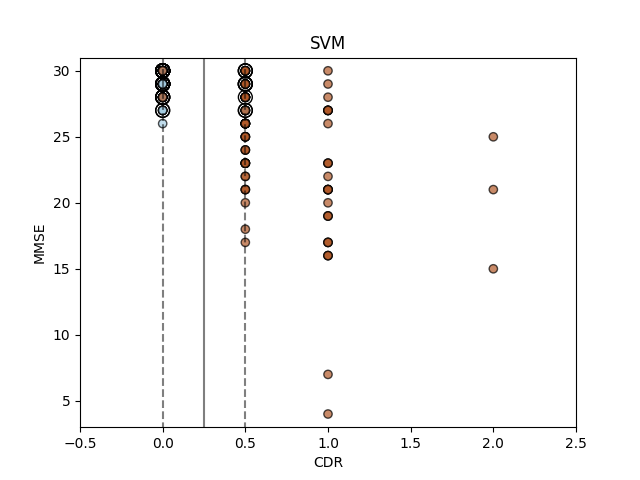
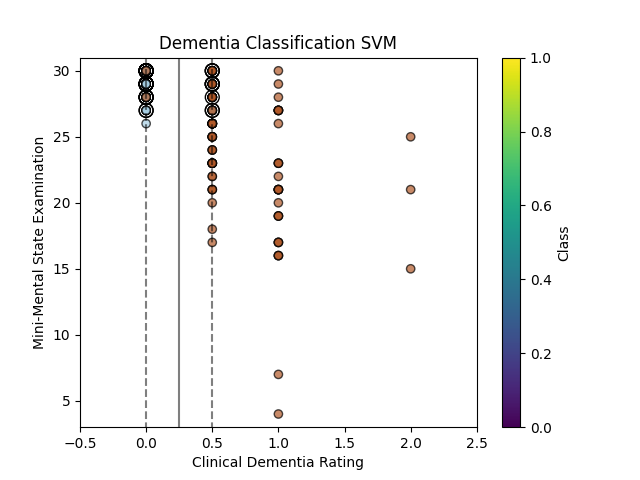
Cleaned main file. Also added way to check colors of classes for SVM.

diff --git a/alzheimer_prediction/main.py b/alzheimer_prediction/main.py
@@ -4,18 +4,12 @@ import preprocessing as pre
 import postprocessing as post
 import support_vector_model as svmLib
 
-# from preprocessing import *
-# from postprocessing import * 
-# from support_vector_model import *
-
 if __name__ == '__main__':
     #change path depending on where data is located
     datapath = './alzheimer.csv'
 
-    # preprocessing
+    # PREPROCESSING
     dp = pre.read_data(datapath)
-    # print("dp:")
-    # print(dp)
     X, y, new_y = pre.encode_data(dp)
     # pre.find_important_features(X, y)
 
@@ -39,37 +33,20 @@ if __name__ == '__main__':
     # Find the best parameters for the SVM; comment when done
     # svmLib.train_svm_multiple(X_train, y_train, X_test, y_test, seed)
     
-    ##### UNCOMMENT LATER
     # Train best SVM
-    # svmLib.best_svm(X_train, y_train, X_test, y_test, seed)
+    svmLib.best_svm(X_train, y_train, X_test, y_test, seed)
 
-    # Postprocessing: get the most important features to highlight
-    #print("X training:")
-    #print(X_train)
+    # POSTPROCESSING
+    # Find 2 most important features for lower-dimension SVM
     headers = ["M/F", "Age", "MMSE", "CDR", "eTIV", "nWBV", "ASF"]
     X_train.columns = headers
-    #print(X_train)
-    # y_train.columns = ["Group"]
-    print("y train:")
-    print(y_train)
     pre.find_important_features(X_train, y_train)
 
     # Find best parameters for SVM with top 2 features
-    x_reduction = X_train[["CDR", "MMSE"]]
-    #x_reduction = X_train.iloc[:, [3, 4]]
-    #print("X reduced")
-    #print(x_reduction)
-
-    X_test.columns = headers
-    x_reduced_test = X_test[["CDR", "MMSE"]]
-    # print("x testing reduced")
-    # print(x_reduced_test)
-
-    # print("y test")
-    # print(y_test)
-
-    #svmLib.train_svm_multiple(x_reduction, y_train, x_reduced_test, y_test, seed)
+    x_train_reduced = X_train[["CDR", "MMSE"]]
+    # X_test.columns = headers
+    # x_test_reduced = X_test[["CDR", "MMSE"]]
+    # svmLib.train_svm_multiple(x_train_reduced, y_train, x_test_reduced, y_test, seed)
 
     # Plot SVM with 2 most important features
-    #post.create_2D_SVM(x_reduction, y_train, seed)
-    post.plot_2D_SVM(x_reduction, y_train, seed)
+    post.plot_2D_SVM(x_train_reduced, y_train, seed)

diff --git a/alzheimer_prediction/postprocessing.py b/alzheimer_prediction/postprocessing.py
@@ -23,7 +23,7 @@ def plot_2D_SVM(x_train, y_train, seed):
     plt.contour(xx, yy, Z, colors='k', levels=[-1, 0, 1], alpha=0.5, linestyles=['--', '-', '--'])
 
     # Plot support vectors
-    plt.scatter(clf.support_vectors_[:, 0], clf.support_vectors_[:, 1], s=100, facecolors='none', edgecolors='k')
+    scatter = plt.scatter(clf.support_vectors_[:, 0], clf.support_vectors_[:, 1], s=100, facecolors='none', edgecolors='k')
 
     # Plot decision hyperplane
     a = -w[0] / w[1]
@@ -42,9 +42,12 @@ def plot_2D_SVM(x_train, y_train, seed):
     plt.plot(xx_hyperplane, yy_bottom, 'k--')
 
     # Name title and axis labels
-    plt.title('SVM')
-    plt.xlabel('CDR')
-    plt.ylabel('MMSE')
+    plt.title('Dementia Classification SVM')
+    plt.xlabel('Clinical Dementia Rating')
+    plt.ylabel('Mini-Mental State Examination')
+
+    # Check color coding for classes
+    # plt.colorbar(scatter, label='Class')
 
     plt.savefig('svm.png')
     plt.show()
